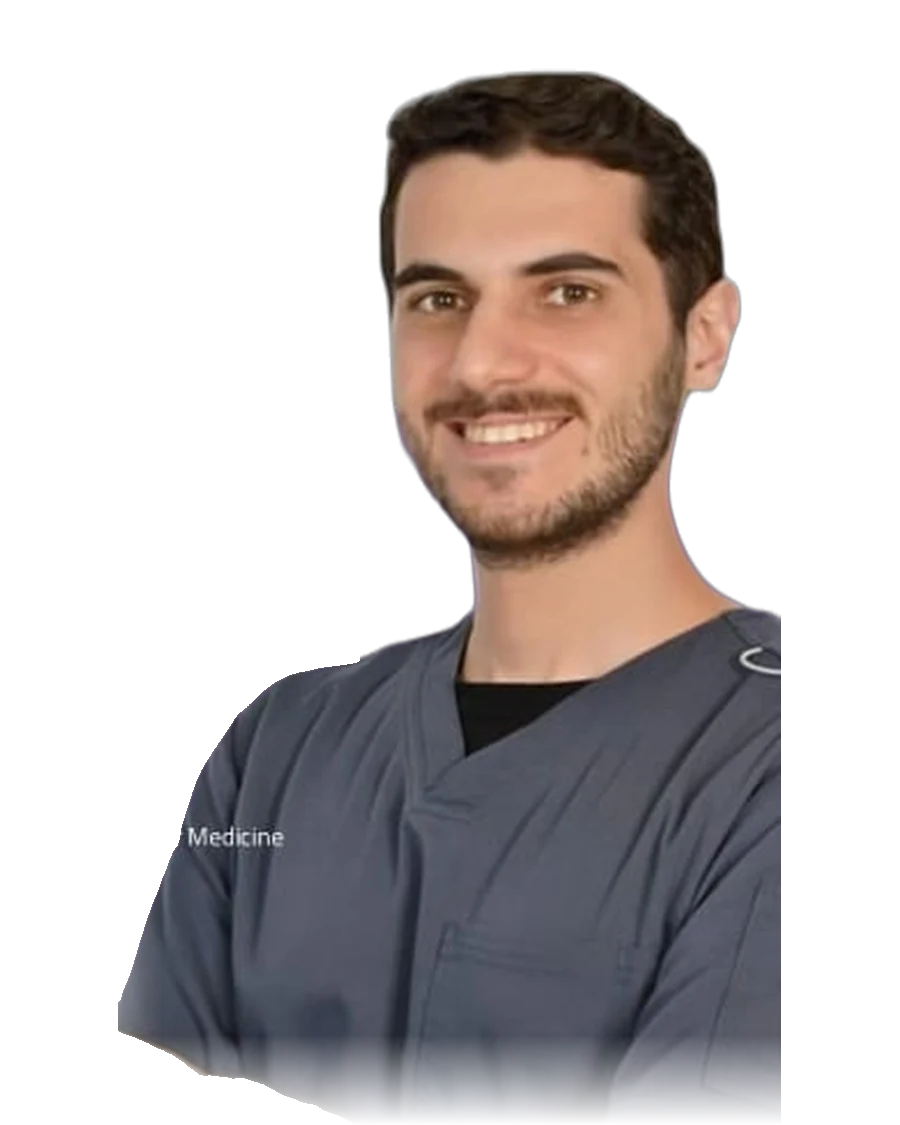
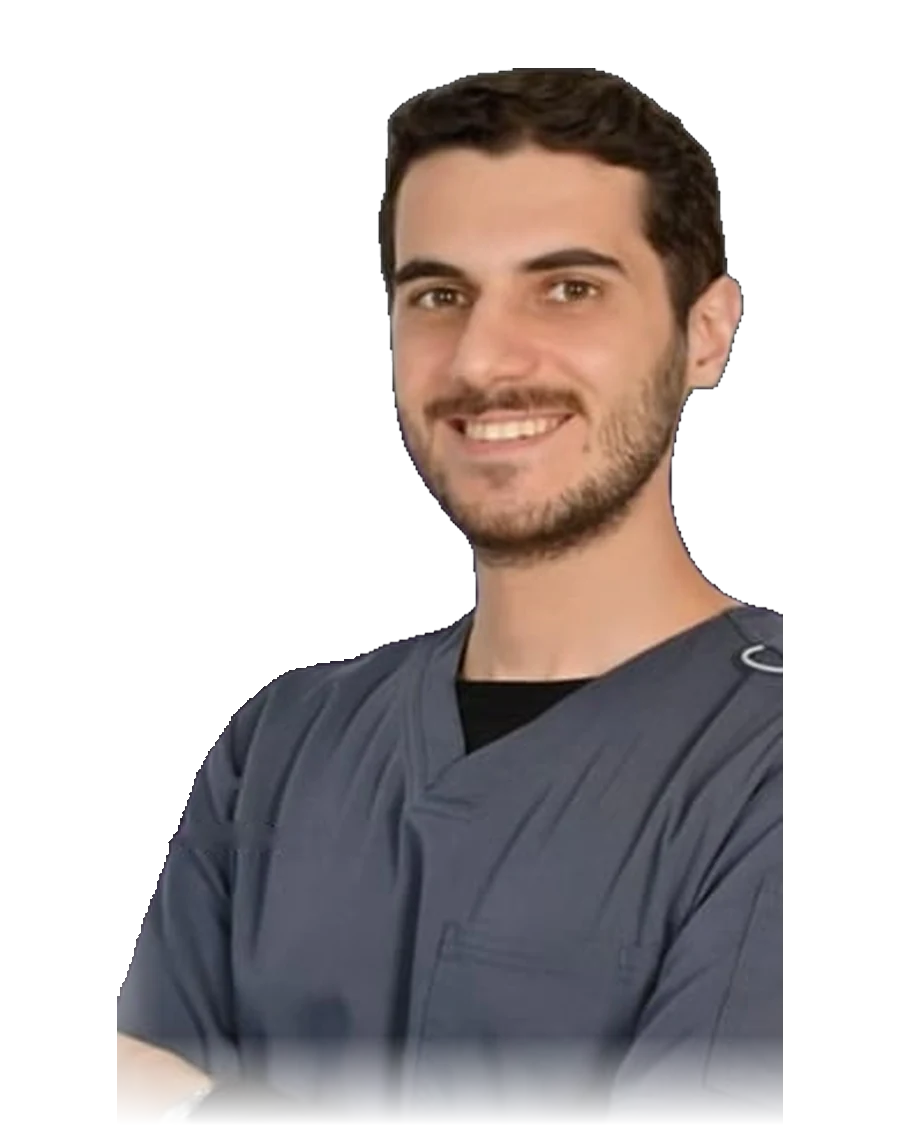
Website: clean doctor portraits (#90)
* Doctor portraits: portrait model, card text painted out, review sheet

Claude-Session: https://claude.ai/code/session_01UZ9yB1qiuDqaMH3Wauanzm

* Doctor portraits (background removed)

* Doctor portraits: solid alpha inside the person (patterned shemagh no longer fades)

Claude-Session: https://claude.ai/code/session_01UZ9yB1qiuDqaMH3Wauanzm

* Doctor portraits (background removed)

---------

diff --git a/scripts/cutouts/cutouts.py b/scripts/cutouts/cutouts.py
@@ -10,17 +10,37 @@ import sys
 import urllib.request
 from pathlib import Path
 
+import cv2
 import numpy as np
 from PIL import Image
 from rembg import new_session, remove
 from scipy import ndimage
+
+def clean_text(img: Image.Image) -> Image.Image:
+    """
+    The cards print the doctor's name and title partly over the coat (lower left). Thin, high-
+    contrast strokes there (letters) are painted over from their surroundings; buttons, pens and
+    stethoscopes are wider and stay.
+    """
+    rgb = np.array(img)
+    g = cv2.cvtColor(rgb, cv2.COLOR_RGB2GRAY)
+    h, w = g.shape
+    k = cv2.getStructuringElement(cv2.MORPH_RECT, (max(5, w // 90), max(5, w // 90)))
+    strokes = cv2.morphologyEx(g, cv2.MORPH_TOPHAT, k) + cv2.morphologyEx(g, cv2.MORPH_BLACKHAT, k)
+    mask = (strokes > 60).astype(np.uint8)
+    zone = np.zeros_like(mask)
+    zone[int(h * 0.55) :, : int(w * 0.45)] = 1
+    mask = cv2.dilate(mask * zone, np.ones((3, 3), np.uint8), iterations=2)
+    return Image.fromarray(cv2.inpaint(rgb, mask * 255, 5, cv2.INPAINT_TELEA))
+
 
 OUT = Path("public/site/derma/doctors")
 OUT.mkdir(parents=True, exist_ok=True)
 for old in OUT.glob("*.webp"):
     old.unlink()
 W, H = 900, 1125  # 4:5
-session = new_session("isnet-general-use")
+# BiRefNet's portrait model keeps hair, coats and shoulders whole (the general model left holes).
+session = new_session("birefnet-portrait")
 
 for d in json.loads(Path("scripts/cutouts/doctors.json").read_text()):
     req = urllib.request.Request(d["url"], headers={"User-Agent": "Mozilla/5.0"})
@@ -29,6 +49,7 @@ for d in json.loads(Path("scripts/cutouts/doctors.json").read_text()):
     # The person stands on the right of the card; the logo and name text are on the left.
     x0 = int(w * (0.5 if d["founder"] else 0.38))
     part = card.crop((x0, 0, w, h))
+    part = clean_text(part)
     cut = remove(part, session=session)
     a = np.array(cut)
     alpha = a[:, :, 3] > 40
@@ -49,7 +70,10 @@ for d in json.loads(Path("scripts/cutouts/doctors.json").read_text()):
         continue
     keep = alpha & ndimage.binary_dilation(largest, structure=disk(10))
     keep = ndimage.binary_fill_holes(keep)
-    a[:, :, 3] = np.where(keep, a[:, :, 3], 0)
+    # Inside the person, a half-sure pixel (a patterned shemagh, a pale coat) counts as solid;
+    # only the faintest edge (fine hair) stays soft.
+    solid = np.where(a[:, :, 3] > 60, 255, a[:, :, 3])
+    a[:, :, 3] = np.where(keep, solid, 0)
     person = Image.fromarray(a)
     ys, xs = np.where(a[:, :, 3] > 0)
     person = person.crop((xs.min(), ys.min(), xs.max() + 1, ys.max() + 1))
@@ -75,3 +99,16 @@ for d in json.loads(Path("scripts/cutouts/doctors.json").read_text()):
     canvas = Image.fromarray(c.clip(0, 255).astype(np.uint8))
     canvas.save(OUT / f"{d['slug']}.webp", "WEBP", quality=88, method=6)
     print("ok", d["slug"])
+
+# A contact sheet to review all portraits at a glance (not used by the website).
+sheet_files = sorted(OUT.glob("*.webp"))
+if sheet_files:
+    tw, th, cols = 225, 281, 7
+    rows = (len(sheet_files) + cols - 1) // cols
+    sheet = Image.new("RGB", (cols * tw, rows * th), (236, 240, 238))
+    for i, f in enumerate(sheet_files):
+        im = Image.open(f).convert("RGBA").resize((tw, th))
+        bg = Image.new("RGBA", (tw, th), (236, 240, 238, 255))
+        bg.alpha_composite(im)
+        sheet.paste(bg.convert("RGB"), ((i % cols) * tw, (i // cols) * th))
+    sheet.save("scripts/cutouts/preview.png")
